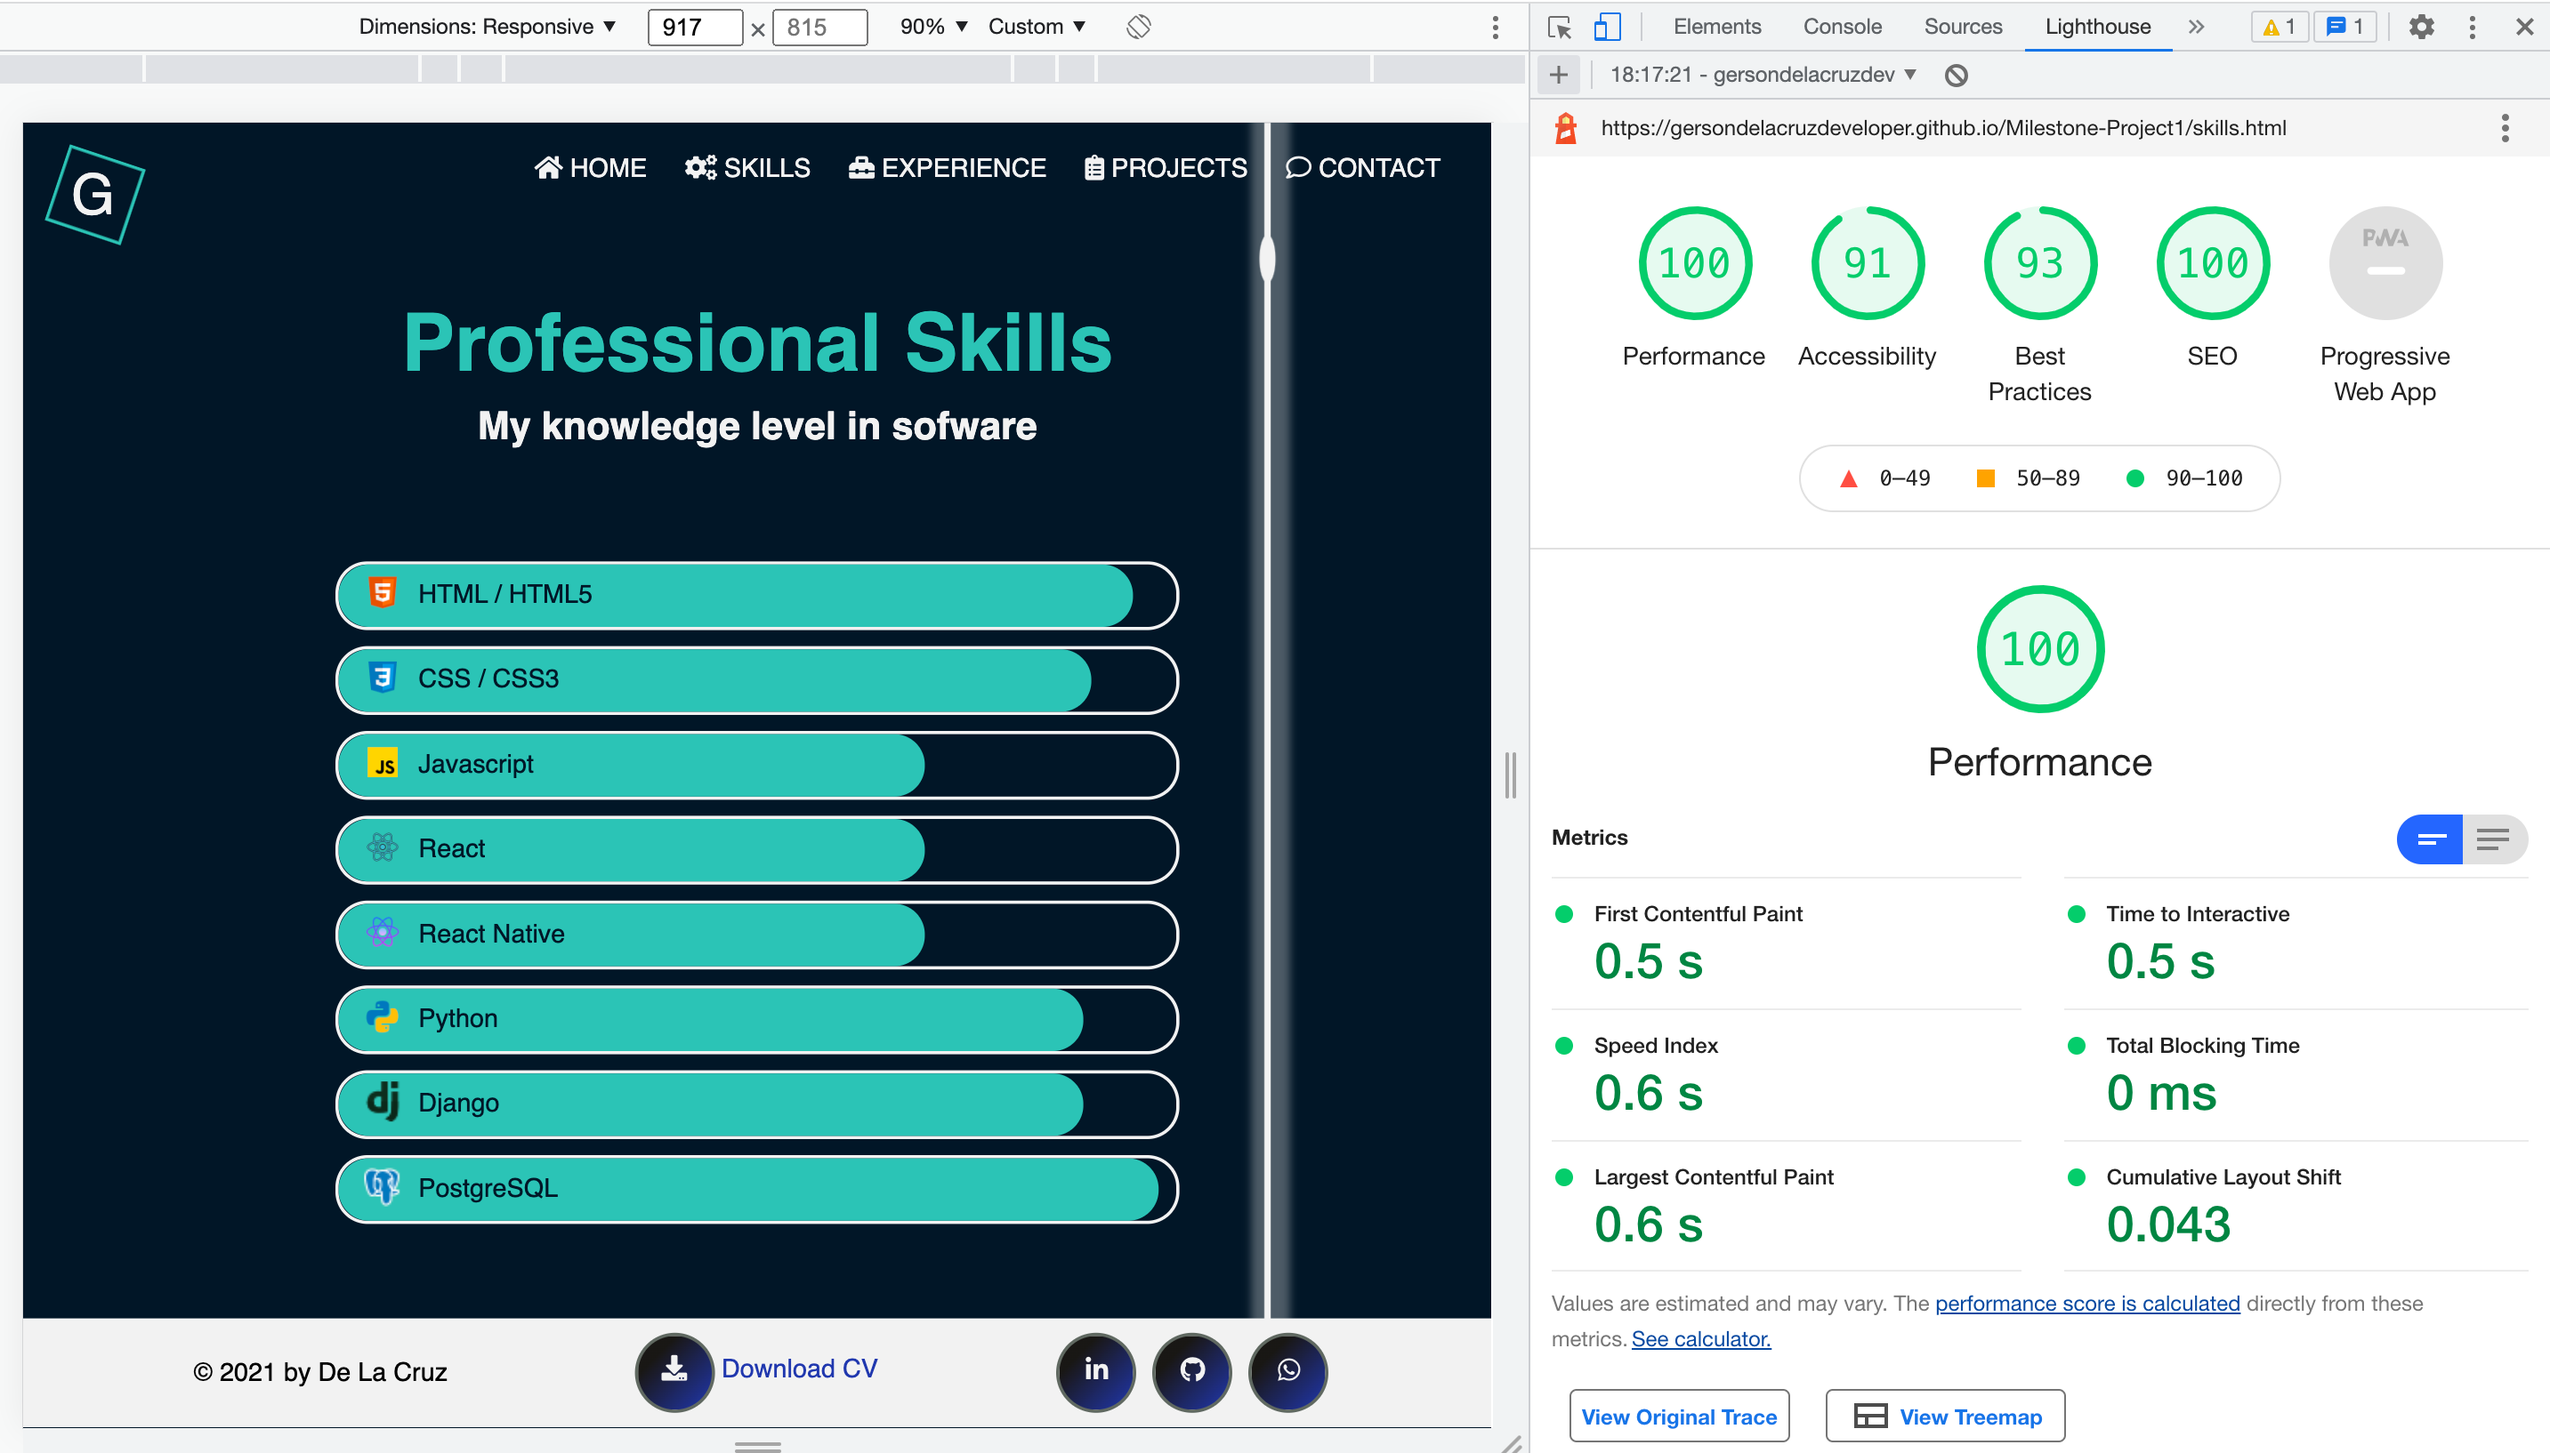
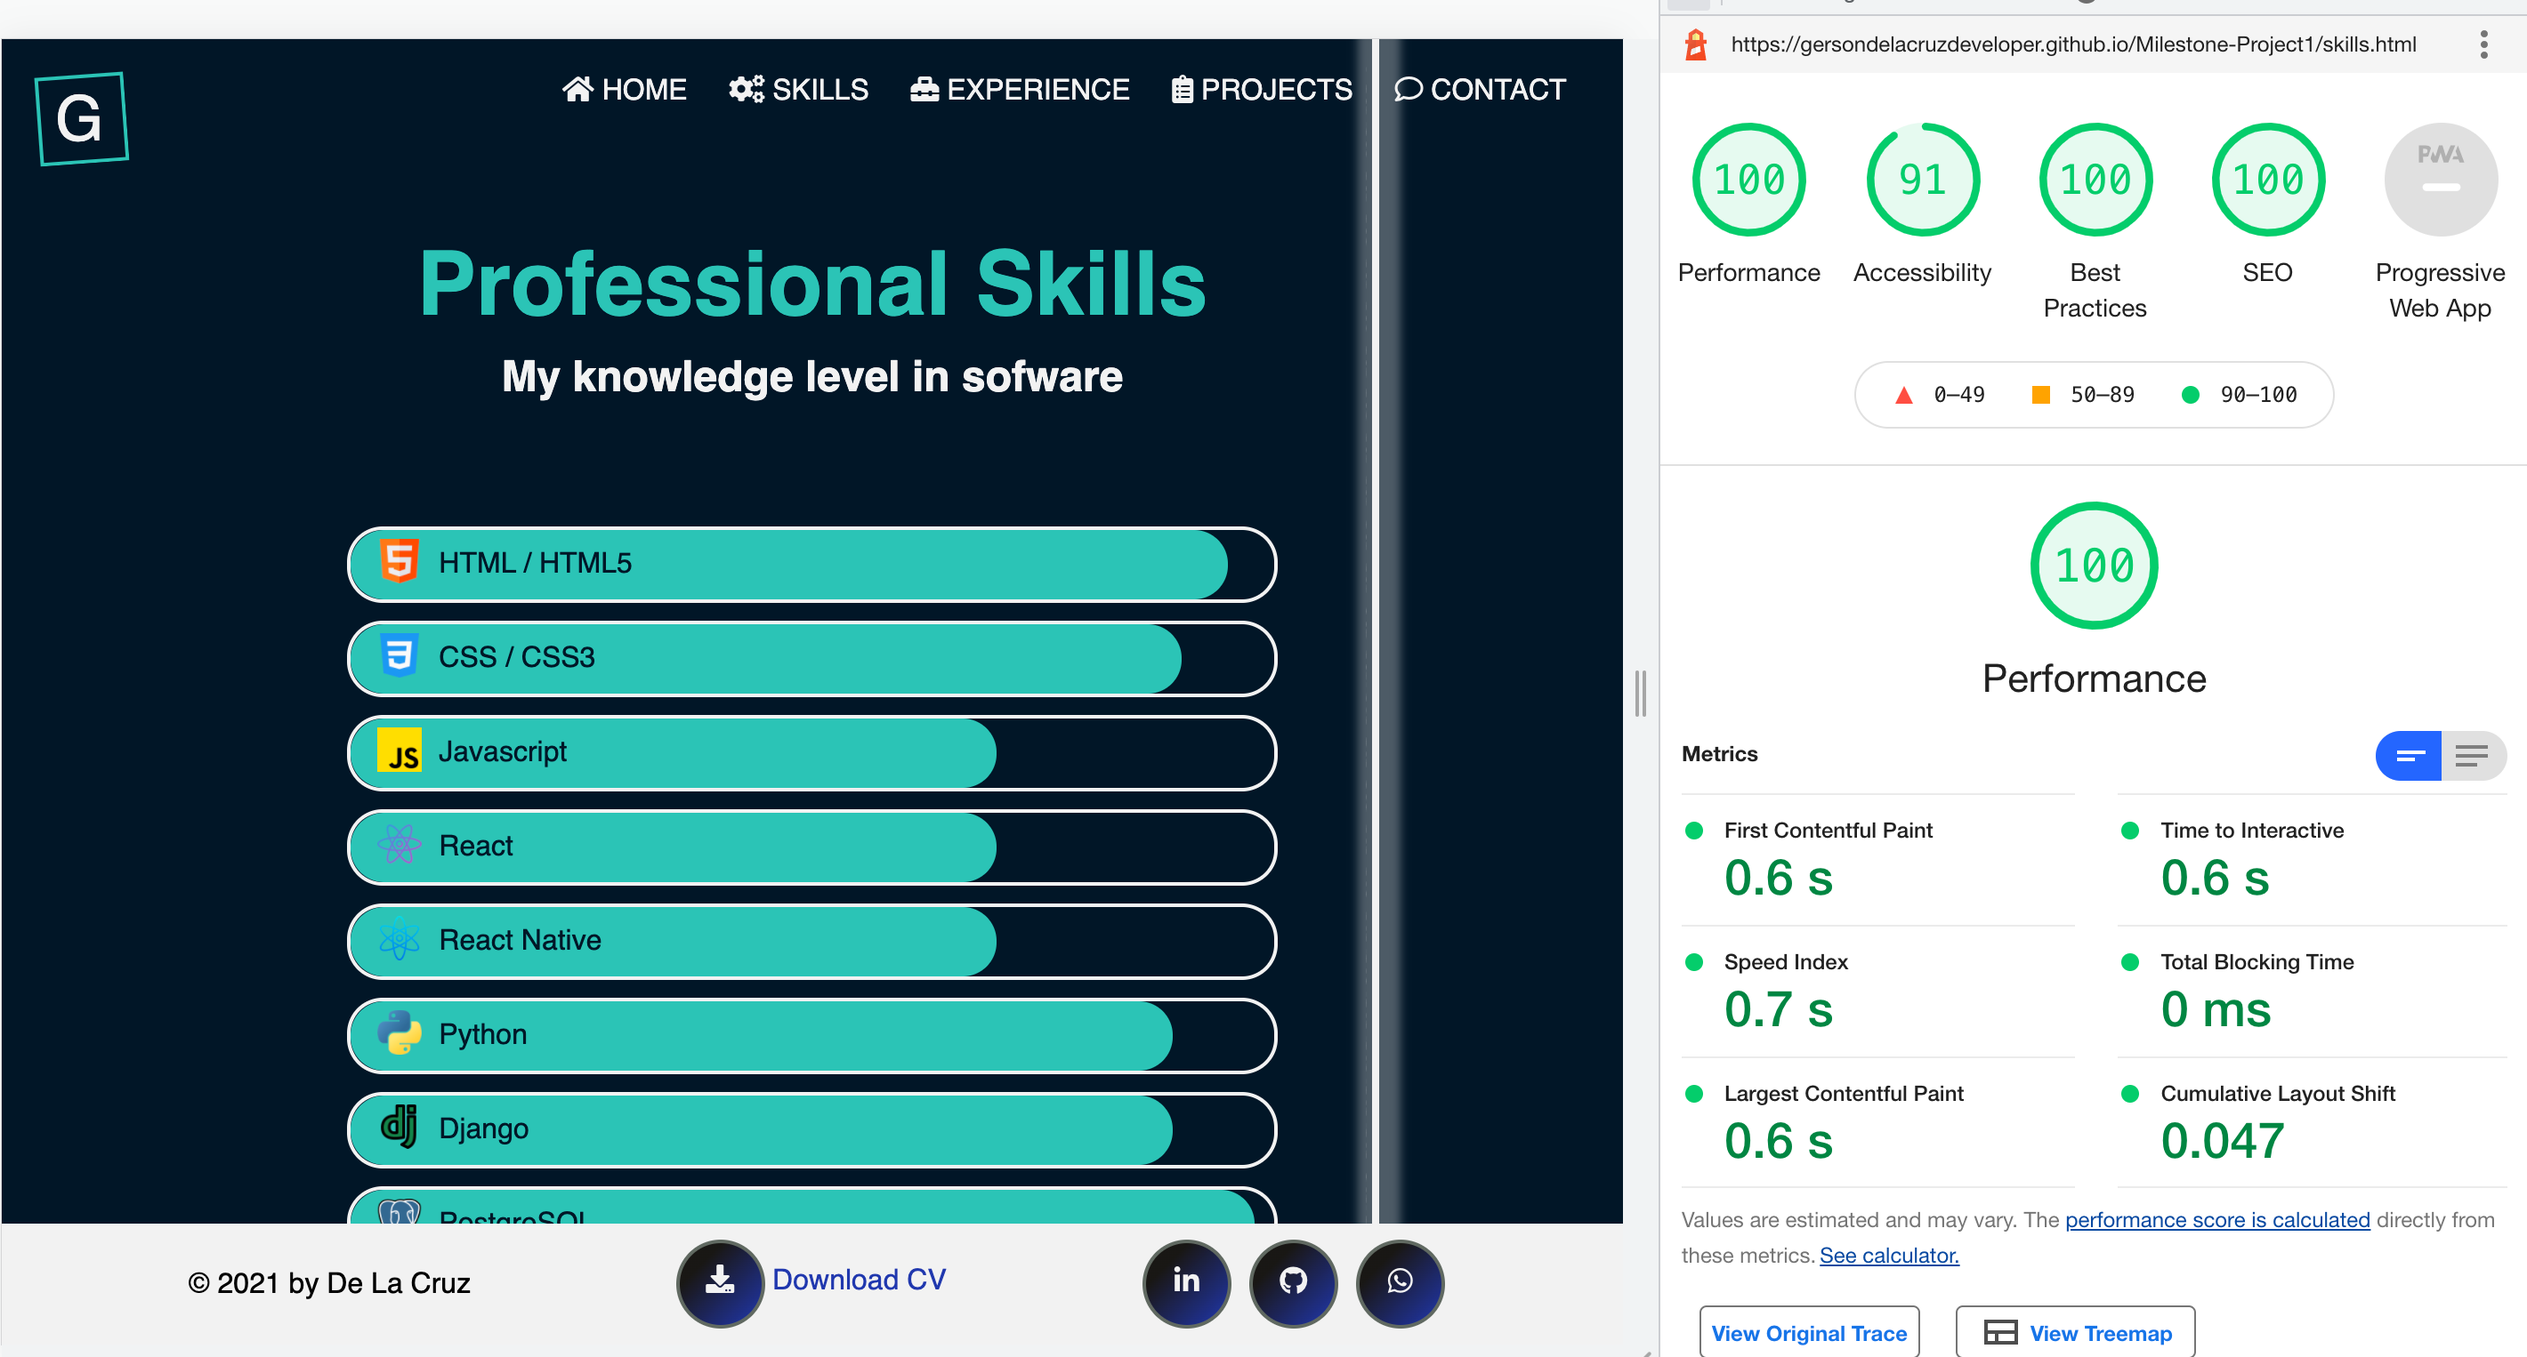
docs: add testing report to README.md file

diff --git a/README.md b/README.md
@@ -284,10 +284,165 @@ Each page has a fixed footer at the bottom. This provides GitHub link, LinkedIn 
 Working code snippets were then replicated in the style.css file in [Gitpod](https://www.gitpod.io/). Other solutions for errors were found in the Code Institute [Slack](code-institute-room.slack.com) channels, on [Stack Overflow](https://stackoverflow.com/), on [W3Schools](https://www.w3schools.com) and on [Code Pen](https://codepen.io).
 
   ### Home Page
- The website was regularly tested using the Google Chrome Developer Tools Lighthouse test. 
+The website was regularly tested using the Google Chrome Developer Tools Lighthouse test. During the testing I solved many issues however I still have two main issues according to Chrome Developer tool: 
+
+ 1 - The main issue is to do with **Accessibility**, Google Chrome Developer Tools Lighthouse says, "Attribute do not match their role" and point me to a div at the footer. [Image of the issue](assets/documentation/testing/aria-error.png). After trying to figure out this problem and spending days. Decided to temporary delete all the div on the website and run again the Chrome Developer Tools Lighthouse test, afterward I noticed that the developer tool still saying that a div was causing this problem however there were no div. 
+
+ 2 - The second issue is to do with **Best Practice** on project page giving me 93% of score. [Image of the issue](assets/documentation/testing/aspect-radio-error.png).  Developer tool says "Display images with incorrect aspect ratio" this issue is jut on desktop and do not show on mobile. after searching for some solution on internet I realize that it was an issue with google itself for reference got to [Google chrome Lighthouse issue](https://github.com/GoogleChrome/lighthouse/issues/7643).
+
+
 #### Home Desktop
 <img src="assets/documentation/testing/home-desktop.png" height="auto" width="100%" alt="Google Chrome Developer Lighthouse Test Scores"/>
 
 #### Home Mobile
 <img src="assets/documentation/testing/home-mobile.png" height="auto" width="100%" alt="Google Chrome Developer Lighthouse Test Scores"/>
 <br>
+
+
+### Skills Page
+
+#### Desktop
+<img src="assets/documentation/testing/skills-desktop.png" height="auto" width="100%" alt="Google Chrome Developer Lighthouse Test Scores"/>
+
+#### Mobile
+<img src="assets/documentation/testing/skills-mobile.png" height="auto" width="100%" alt="Google Chrome Developer Lighthouse Test Scores"/>
+
+
+### Experience Page
+
+#### Desktop
+<img src="assets/documentation/testing/experience-desktop.png" height="auto" width="100%" alt="Google Chrome Developer Lighthouse Test Scores"/>
+
+#### Mobile
+<img src="assets/documentation/testing/experience-mobile.png" height="auto" width="100%" alt="Google Chrome Developer Lighthouse Test Scores"/>
+
+
+### Projects Page
+
+#### Desktop
+<img src="assets/documentation/testing/project-desktop.png" height="auto" width="100%" alt="Google Chrome Developer Lighthouse Test Scores"/>
+
+#### Mobile
+<img src="assets/documentation/testing/project-mobile.png" height="auto" width="100%" alt="Google Chrome Developer Lighthouse Test Scores"/>
+
+### Contact Page
+
+#### Desktop
+<img src="assets/documentation/testing/contact-desktop.png" height="auto" width="100%" alt="Google Chrome Developer Lighthouse Test Scores"/>
+
+#### Mobile
+<img src="assets/documentation/testing/contact-mobile.png" height="auto" width="100%" alt="Google Chrome Developer Lighthouse Test Scores"/>
+
+<br>
+
+### W3 HTML Validation
+
+[W3C HTML Validation Service](https://validator.w3.org/#validate_by_uri) was used to validate the HTML documents. It highlighted some three errors across the site which have since been recitified: 
+- Favicon link has a incorect rel value and the correct value was added
+- "The link role is unnecessary for element a with attribute href". The link role was eliminated
+- "Duplicated attribute rel". by mistake I added doble atribute to the link rel then one rel attribute was eliminated.
+
+The site currently has no errors:
+<img src="assets/documentation/testing/html-validator-no-errors-page.png" height="auto" width="100%" alt="W3C HTML Validation screenshot showing that the site has no errors." />
+
+<br>
+
+
+### CSS Validation
+
+[W3C CSS Validation Service](https://jigsaw.w3.org/css-validator/validator) was used to validate the style.css file. 
+It highlighted some errors which have since been resolved:
+- a missing curly brace was inserted in the CSS file.
+- a forward-slash character, left over from a deleted comment, was causing a parse error in the CSS file and was removed.
+
+The style.css file currently has no errors:
+<img src="assets/documentation/testing/css-validator-no-errors-page.png" height="auto" width="100%" alt="W3C CSS Validation screenshot showing that the CSS file has no errors."/>
+
+<br>
+
+### Manual Testing
+The website has been tested in the following browsers:
+- Chrome Version 85.0.4183.121 
+- Samsung Internet Version 12.0.1.47	
+- Microsoft Edge Version 85.0.564.63 
+- Opera 70
+- Mozilla Firefox 81.0.1
+
+The website works and functions as expected on Samsung Internet, Google Chrome, Microsoft Edge, Opera and Firefox.
+<br>
+
+### Responsiveness
+The website was tested for responsive design using [Google Chrome Developer Tools](https://developers.google.com/web/tools/chrome-devtools).  
+It was tested, and found to respond appropriately with regard to each of the following:
+
+**Mobile devices:**
+- Moto G4
+- Galaxy S5
+- Pixel 2
+- Pixel 2 XL
+- iPhone 5/SE
+- iPhone 6/7/8
+- iPhone 6/7/8 Plus
+- iPhone X
+
+**Tablet devices:**
+- iPad
+- iPad Pro
+- Surface Duo
+- Galaxy Fold
+
+**Laptop dimensions:**
+- 15" Laptop (1024 x 800)
+- 13" Laptop (1024 x 800)
+
+**Desktop dimensions:**
+- 24" Desktop (1920 x 1200)
+- 22" Desktop (1680 x 1050)
+- 20" Desktop (1600 x 900)
+
+<br>
+
+### Tested User Stories
+
+#### New User
+I am a employer looking to hire a developer: 
+
+&#9745; I want to find out about what projects the developer has done 
+<img src="assets/documentation/testing/project-done.png" height="auto" width="100%" alt="Screenshot of Desktop project done"/>
+
+&#9745; I want to find out what programming languages he knows and what level of the language he has.
+<img src="assets/documentation/testing/language-know.png" height="auto" width="100%" alt="Screenshot of Desktop skills page."/>
+
+<br>
+
+&#9745;I want to find out if can contact him..
+<img src="assets/documentation/testing/contact.png" height="auto" width="100%" alt="Screenshot of Desktop different contact way."/>
+
+<br>
+
+&#9745; I want to find out if he has a printable CV.
+<img src="documentation/testing-screenshots/screenshot-new-user-gym-location.png" height="auto" width="100%" alt="Screenshot of Desktop hero image, title and services section."/>
+
+<br>
+
+&#9745; I want to find out if he has any experience in software development.. 
+<img src="assets/documentation/testing/experience.png" height="auto" width="100%" alt="Screenshot of desktop experience page."/>
+
+<br>
+&#9745; I want to find out what type of developer he is e.g., frontend, backend, full-stack developer.
+<img src="assets/documentation/testing/screenshot-ocupation-developer.png" height="auto" width="100%" alt="Screenshot of desktop ocupation"/>
+
+<br>
+<br>
+
+&#9745; I want to find out if he has a GitHub page.
+<img src="assets/documentation/testing/github-link-screenshot.png" height="auto" width="100%" alt="Screenshot of desktop view of EEE Fitness exercise classes timetable."/>
+
+<br>
+<br>
+
+### Bugs
+  1- **Accessibility** issue  according to Google Chrome Developer Tools Lighthouse 87-91%.
+
+  2- **Best Practice** issue  according to Google Chrome Developer Tools Lighthouse 93%. Just on project page and 100% on mobile.
+
